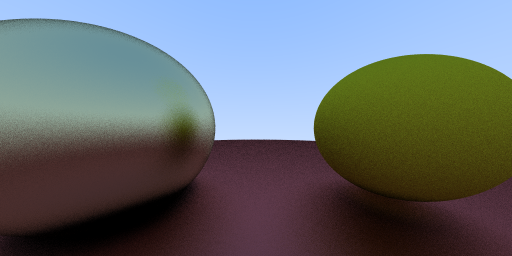
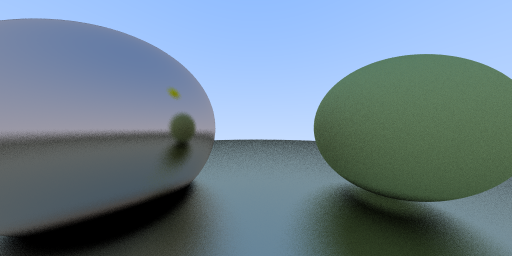
Added FOV for camera. Updated dielectric sphere image

diff --git a/src/camera.cpp b/src/camera.cpp
@@ -5,15 +5,24 @@
  * Stefan Wong 2019
  */
 
+#include <cmath>
 #include "camera.hpp"
 
 
-camera::camera()
+camera::camera(float vfov, float aspect)
 {
+    float theta;
+    float half_height;
+    float half_width;
+
+    theta = vfov * M_PI / 180;
+    half_height = tan(theta / 2);
+    half_width  = aspect * half_height;
+
     this->origin = vec3(0.0, 0.0, 0.0);
-    this->lower_left_corner = vec3(-2.0, -1.0, -1.0);
-    this->horizontal = vec3(4.0, 0.0, 0.0);
-    this->vertical = vec3(0.0, 2.0, 0.0);
+    this->lower_left_corner = vec3(-half_width, -half_height, -1.0);
+    this->horizontal = vec3(2.0 * half_width, 0.0, 0.0);
+    this->vertical = vec3(0.0, 2.0 * half_height, 0.0);
 }
 
 ray camera::get_ray(float u, float v)

diff --git a/tools/render_ppm.cpp b/tools/render_ppm.cpp
@@ -41,13 +41,13 @@ int main(void)
     metal* m2;
     lambertian* l1;
     dielectric* d1;
-    m1 = new metal(vec3(0.6, 0.3, 0.3), 0.7);
-    m2 = new metal(vec3(0.8, 0.8, 0.6), 0.4);
-    l1 = new lambertian(vec3(0.6, 0.6, 0.1));
-    d1 = new dielectric(1.5);
+    m1 = new metal(vec3(0.7, 0.7, 0.6), 0.4);
+    m2 = new metal(vec3(0.8, 0.7, 0.65), 0.1);
+    l1 = new lambertian(vec3(0.6, 0.65, 0.4));
+    d1 = new dielectric(0.5);
 
     // a camera object
-    camera cam;
+    camera cam(90, float(nx) / float(ny));
 
     // generate some spheres
     list[0] = new sphere(vec3(1, 0, -1), 0.5, l1);

diff --git a/src/camera.hpp b/src/camera.hpp
@@ -23,7 +23,7 @@ class camera
         vec3 vertical;
 
     public:
-        camera();
+        camera(float vfov, float aspect);
         ray get_ray(float u, float v);
 };
 
